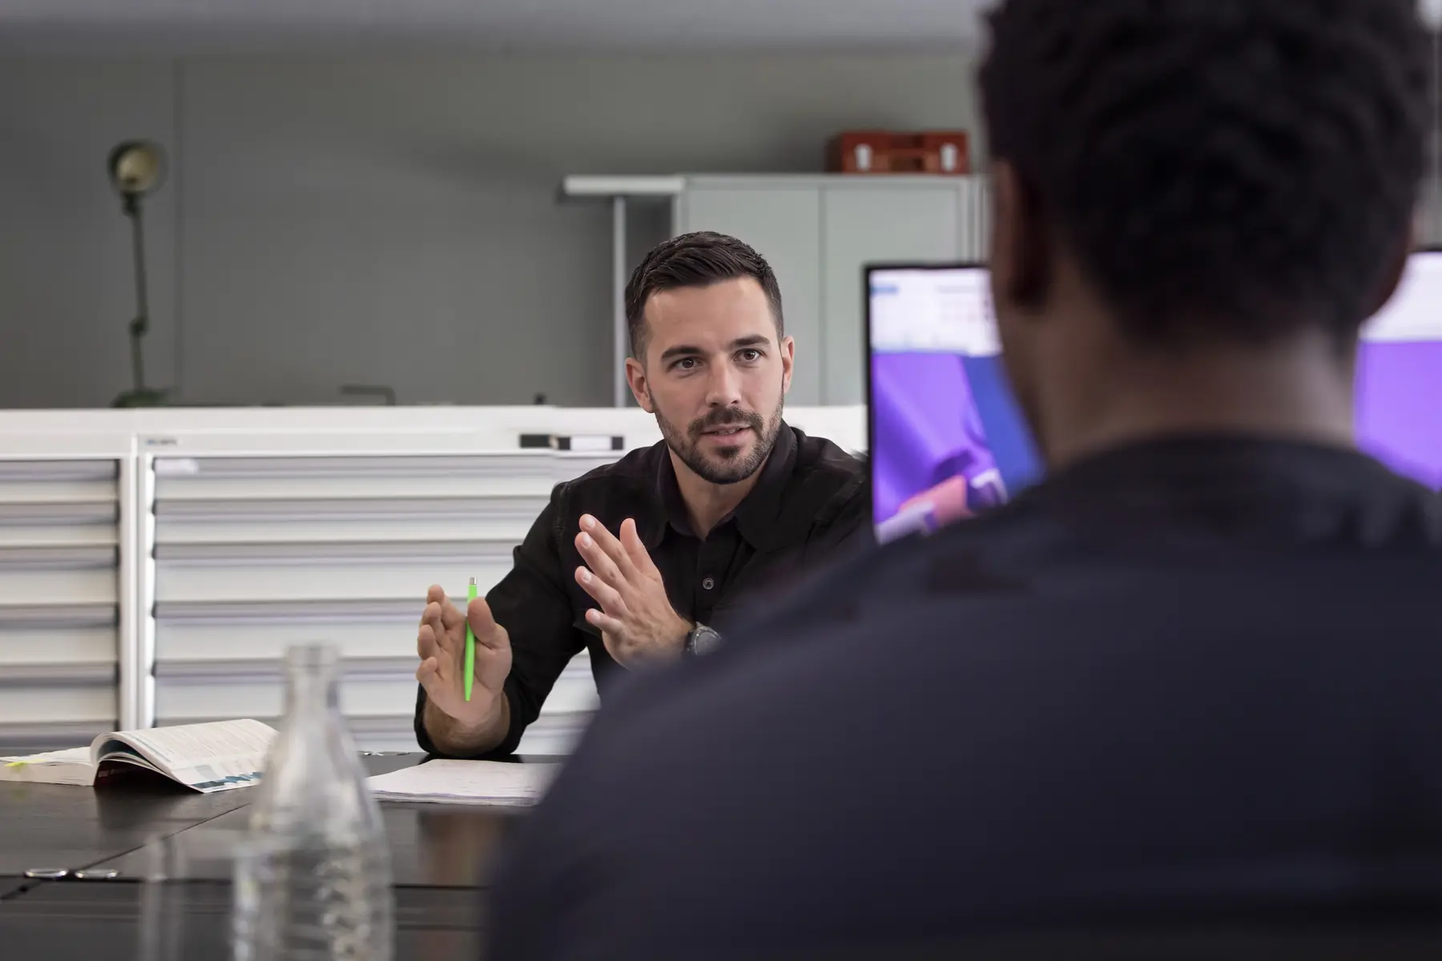
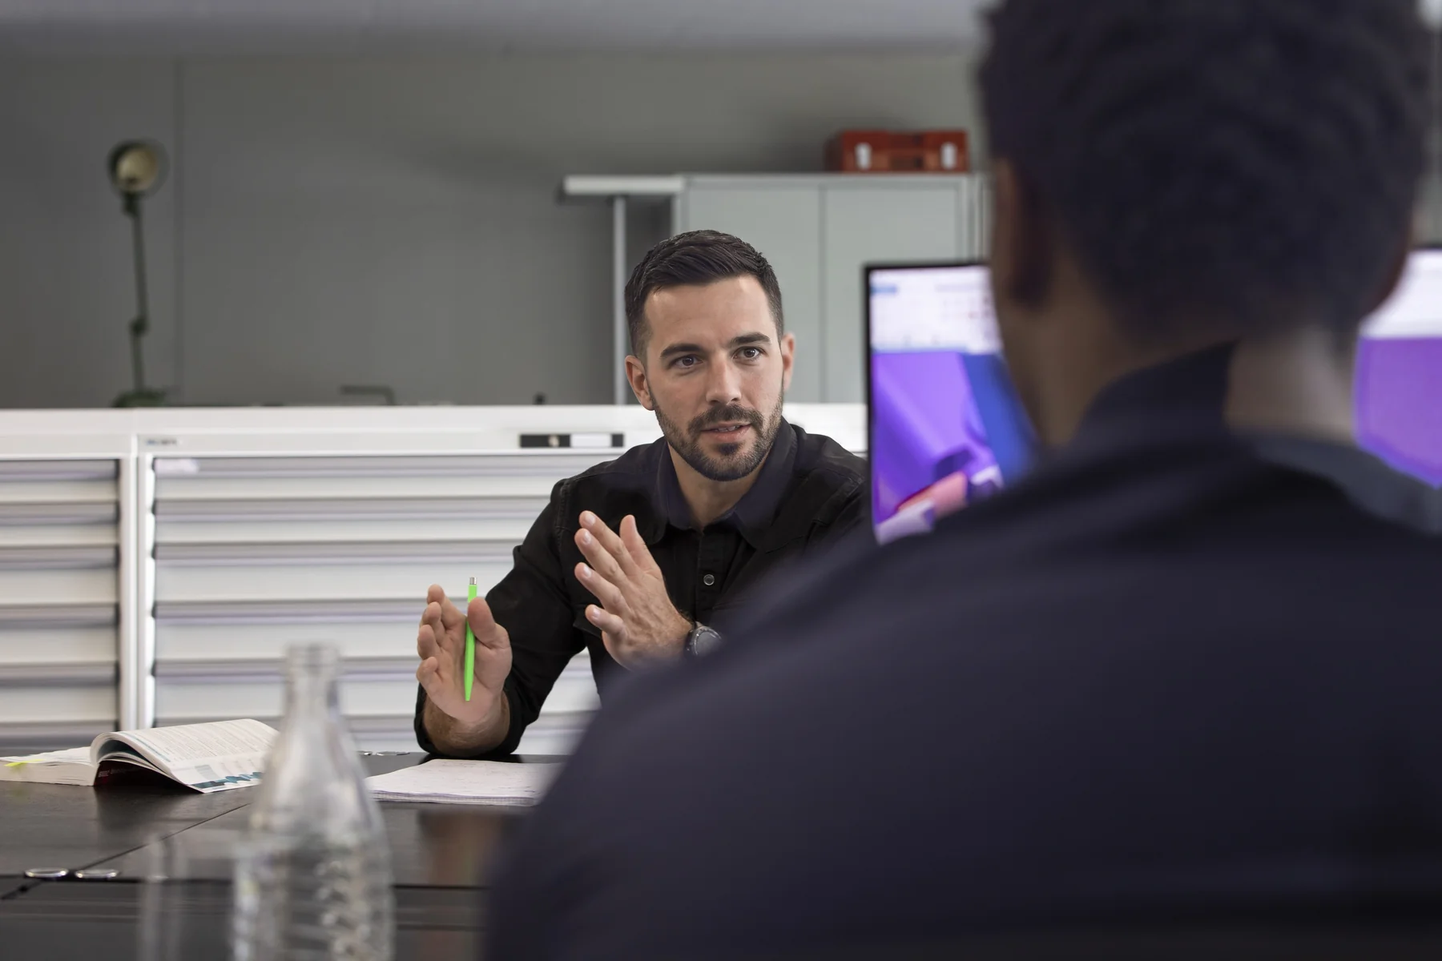
Fotos mit erfundenen Personen neu aus Mastern in Originalgroesse
Kundenauftrag 19.11.2026: alle Bearbeitungen auf Plausibilitaet pruefen
(Teint, Haarton, Arme und Haende passend zum Gesicht), der Lehrling
passte nicht.

- r1: zehn Fotos im Fundus ersetzt (09, 10, 11, 12, 15, 16, 18, 19, 20,
  21, je mit Mobilvariante). Sie stammen jetzt aus neuen Mastern, die aus
  den unveraenderten Originalfotos aufgebaut sind: Farben wie im Original,
  Lehrling neu und auf allen Fotos dieselbe Person, Haende an das Gesicht
  angeglichen. Bildausschnitt unveraendert, kein Eingriff in HTML, CSS, JS.
- Die Mitarbeiterin bleibt auf allen Fotos original (Kundenkorrektur).
- _handover/tools/fotomaster: Verfahren, Pruefung, Tabelle der 18 Master,
  offene Punkte und das Skript web_einsetzen.py (Web-Groessen aus den
  Mastern, prueft den Bildausschnitt gegen den Fundus).
- UEBERGABE.md, CLAUDE.md, V2-VIDEOVERGLEICH.md (Punkte 74 und 75) und
  Bilduebersicht nachgefuehrt.

Sweep r1: 5 Seiten x 6 Viewports x DE/EN ohne Befund.

Claude-Session: https://claude.ai/code/session_01SNQpCPUPKnTCeqsKMER1Gk

diff --git a/_handover/tools/fotomaster/web_einsetzen.py b/_handover/tools/fotomaster/web_einsetzen.py
@@ -1,0 +1,47 @@
+# Setzt Web-Fotos, die aus den Mastern in Originalgroesse gerechnet wurden, in den Fundus r1/assets/img/v2 ein.
+# Quelle je Foto: zwei JPEG-Haelften NN_L.jpg und NN_R.jpg (zusammen 1800 x 1200), erzeugt von web.py in der Bildwerkstatt.
+# Ziel: NN.webp (1800 x 1200) und NN-m.webp (1100 x 733), gleiche Einstellungen wie add_photos.py (WebP 85, method 6).
+# Aufruf: python3 web_einsetzen.py <ordner_mit_haelften> [NN ...]      (ohne Nummern: alle gefundenen)
+# Schutz: Das neue Bild muss denselben Ausschnitt zeigen wie die bisherige Fundus-Datei, sonst wird nichts geschrieben.
+import os, sys, glob, math
+from PIL import Image
+HERE = os.path.dirname(os.path.abspath(__file__))
+OUT = os.path.abspath(os.path.join(HERE, '..', '..', '..', 'r1', 'assets', 'img', 'v2'))
+
+def signatur(im, n=(48, 32)):
+    b = list(im.convert('L').resize(n, Image.BOX).tobytes())
+    m = sum(b) / len(b); v = [x - m for x in b]; s = math.sqrt(sum(x * x for x in v)) or 1.0
+    return [x / s for x in v]
+
+def aehnlich(a, b):
+    return sum(x * y for x, y in zip(signatur(a), signatur(b)))
+
+def main():
+    if len(sys.argv) < 2:
+        sys.exit('Aufruf: web_einsetzen.py <ordner_mit_haelften> [NN ...]')
+    src = sys.argv[1]
+    nums = sys.argv[2:] or sorted({os.path.basename(p)[:2] for p in glob.glob(os.path.join(src, '[0-9][0-9]_L.jpg'))})
+    for num in nums:
+        left = Image.open(os.path.join(src, num + '_L.jpg')).convert('RGB')
+        right = Image.open(os.path.join(src, num + '_R.jpg')).convert('RGB')
+        if left.height != 1200 or right.height != 1200 or left.width + right.width != 1800:
+            sys.exit(f'{num}: unerwartete Masse {left.size} + {right.size}')
+        im = Image.new('RGB', (1800, 1200)); im.paste(left, (0, 0)); im.paste(right, (left.width, 0))
+        alt_pfad = os.path.join(OUT, num + '.webp')
+        if os.path.exists(alt_pfad):
+            alt = Image.open(alt_pfad).convert('RGB')
+            if alt.size != (1800, 1200):
+                sys.exit(f'{num}: bisherige Datei hat {alt.size}, erwartet 1800 x 1200')
+            k = aehnlich(alt, im)
+            if k < 0.90:
+                sys.exit(f'{num}: Ausschnitt weicht von der bisherigen Datei ab (Kennwert {k:.3f}), nichts geschrieben')
+        else:
+            k = float('nan')
+        for suffix, width in (('', 1800), ('-m', 1100)):
+            out = im if width == 1800 else im.resize((width, round(1200 * width / 1800)), Image.LANCZOS)
+            pfad = os.path.join(OUT, f'{num}{suffix}.webp')
+            out.save(pfad, 'WEBP', quality=85, method=6)
+            print(pfad, out.size, os.path.getsize(pfad) // 1024, 'KB', f'Kennwert {k:.3f}' if suffix == '' else '')
+
+if __name__ == '__main__':
+    main()

diff --git a/_handover/tools/fotomaster/README.md b/_handover/tools/fotomaster/README.md
@@ -1,0 +1,140 @@
+# Fotos mit erfundenen Personen: Master in Originalgroesse (Stand 19.11.2026)
+
+Auf mehreren Fotos der Website sind die Koepfe echter Mitarbeitender durch erfundene Personen ersetzt. Dieser Ordner
+beschreibt, was daran am 19.11.2026 neu gemacht wurde, und enthaelt die Werkzeuge dazu. Die grossen Bilddateien selbst
+liegen nicht im Repository (siehe "Wo die Dateien liegen").
+
+## 1. Ausgangslage
+
+- Am 24.09.2026 entstanden im Higgsfield-Konto des Kunden 42 Bearbeitungen (Modell `nano_banana_flash`, Ausgabe
+  5056 x 3392) auf 19 Fotos in voller Groesse und vier Testausschnitten. Jede Bearbeitung hat das ganze Bild neu
+  gerechnet. Der Inhaber bleibt auf allen Fotos unveraendert.
+- Der Fotofundus der Website (`r1/assets/img/v2`, Fotos 09, 10, 11, 12, 15, 16, 18, 19, 20, 21) stammte aus diesen
+  Bearbeitungen. Im Repository war das bis 19.11.2026 nirgends vermerkt.
+- Maengel des alten Stands: Farbstich ins Magenta (schwarze Hemden violett, Decken rosa), das ganze Bild weicher als
+  das Original, der Lehrling mit rosa Haut und kindlichem Gesicht auf einem erwachsenen Koerper, Haende der
+  dunkleren Figur hell geblieben.
+- Kundenauftrag 19.11.2026: alle bearbeiteten Bilder auf Plausibilitaet pruefen (Haarton zu Armhaaren, Teint),
+  Qualitaet verbessern, auf den Originaldateien in voller Groesse arbeiten. Die Frau am Bildschirm (Foto 04) bleibt
+  Original, auch auf anderen Fotos.
+
+## 2. Verfahren
+
+Grundsatz: Das unveraenderte Original in voller Groesse ist die Basis. Ersetzt werden nur die Stellen, die sich
+aendern muessen. Farbstich und Unschaerfe des alten Stands verschwinden damit von selbst.
+
+1. **Koepfe aus der frueheren Bearbeitung uebernehmen** (`analyze.py`, `comp.py`, `build1.py`): Die alte Bearbeitung
+   wird auf das Original ausgerichtet (SIFT, affine Abbildung), farblich angeglichen (quadratische Abbildung, gelernt
+   auf unveraenderten Flaechen) und nur im Kopfbereich ins Original gesetzt (Differenzmaske, Feinverschiebung,
+   Kornangleich). Die Gesichter selbst sind die vom Kunden freigegebenen.
+2. **Lehrling neu** (`jobs.py`, `prep_gen.py`, `place.py`): In sechs Fotos wurde der Kopf neu erzeugt (Higgsfield,
+   Modell `nano_banana_2_1`, 4k, Ausschnitt 4:5 aus dem Original, dazu ein Referenzkopf). Das Ergebnis wird auf den
+   Ausschnitt ausgerichtet, farblich angeglichen und nur im Kopfbereich eingesetzt. Koerper, Arme und Haende bleiben
+   Original.
+3. **Hautton der dunkleren Figur** (`skin.py`, `skinreg.py`): Haende und Unterarme werden nur in der Farbe an das
+   Gesicht angeglichen (Verhaeltnis neues Gesicht zu Originalgesicht je Helligkeitsstufe). Struktur, Uhr, Ring und
+   Armband bleiben Original. Es wird nichts erzeugt.
+4. **Export** (`build2.py`): JPEG mit den Quantisierungstabellen, der Farbunterabtastung und dem Farbprofil des
+   Originals. Die Originale tragen keine EXIF-Daten, die Master auch nicht.
+
+## 3. Pruefung
+
+- **Gesichtsvergleich** (`facecheck.py`, `facecheck2.py`, YuNet und SFace aus OpenCV, gleiche Person ab 0.363):
+  Der Lehrling ist in allen sechs Fotos dieselbe Person (0.57 bis 0.97 zur Vorlage) und der echten Person nicht
+  aehnlich (0.12 bis 0.31 im fertigen Master). Von den 20 uebernommenen Koepfen mit sichtbarem Gesicht liegen 15
+  unter der Schwelle. Fuenf liegen darueber, sind der echten Person also noch aehnlich: Teamfoto rechts 0.62,
+  Profil am Bildschirm 0.47, zweite Drehmaschine 0.46, 3D-Drucker 0.44, Besprechung mit Flasche 0.43. Alle Werte
+  stehen in `protokoll/gesichtsvergleich.json` im Lieferpaket.
+- **Unabhaengige Durchsicht**: zehn Pruefer (je Fotogruppe ein Blick auf die Technik und einer auf die
+  Plausibilitaet, dazu ein Vergleich der Figuren ueber alle Fotos), danach wurde jeder Befund von einem zweiten
+  Pruefer am Bild nachgeprueft. Bestaetigte und behobene Befunde: zweite Hand der dunkleren Figur am Tablet,
+  Sonnenflecken am Handgelenk, heller Hautstreifen an der goldenen Uhr und am Uhrenband, Bartrest neben dem Kinn
+  des Lehrlings, angeschnittene Stirn des Lehrlings, unleserlich gewordenes Schild im Hintergrund, Einsetzkanten und
+  zu scharfer Hinterkopf bei zwei Rueckenfiguren.
+
+## 4. Bekannte Grenzen und offene Punkte
+
+- Fuenf uebernommene Koepfe sind der echten Person laut Gesichtsvergleich noch aehnlich (siehe Abschnitt 3), am
+  staerksten der Mann rechts im Teamfoto (Foto 16). Wenn die Personen nicht erkennbar sein sollen, diese Koepfe wie
+  beim Lehrling mit einem neuen erfundenen Gesicht ersetzen. Entscheid des Kunden offen.
+- Die uebernommenen Koepfe stammen aus Bildern mit 5056 Pixeln Breite. In der 100-Prozent-Ansicht sind sie etwas
+  weicher als das Original daneben. Fuer Web und uebliche Druckgroessen spielt das keine Rolle.
+- Die Figuren aus der frueheren Bearbeitung sind von Foto zu Foto nicht streng dieselbe Person (junger Mann mit
+  glattem Gesicht dreimal verschieden, Bart und Brille wechseln). Jedes Foto ist fuer sich stimmig. Wer die Figuren
+  vereinheitlichen will, erzeugt die Koepfe wie beim Lehrling mit einem festen Referenzkopf neu.
+- Auf dem Foto mit den drei Sitzenden ist am Knoechel der rechten Person eine Taetowierung der echten Person zu
+  sehen. Vor einer Veroeffentlichung dieses Fotos entfernen.
+- Die Fotos in der PowerPoint-Vorlage (`_handover/powerpoint/assets/p09.jpg` und weitere) und der eingefrorene
+  Fundus im Root (`assets/img/v2`) zeigen noch den alten Stand.
+- Rechtlich zu pruefen (keine Rechtsberatung): Verarbeitung von Mitarbeiterfotos bei einem externen KI-Dienst und
+  eine allfaellige Kennzeichnung KI-bearbeiteter Bilder.
+
+## 5. Die 18 Master
+
+`W` = Nummer im Fotofundus der Website. Ohne Nummer: nicht auf der Website.
+
+| W | Datei im Lieferpaket | Inhalt | Schritte |
+|---|---|---|---|
+| 09 | `IRo_09_tablet_master.jpg` | Zwei Personen am Tablet | Koepfe uebernommen, Hautton beider Haende |
+| 10 | `IRo_10_besprechung_geste_master.jpg` | Besprechung, Person von hinten | Koepfe uebernommen |
+| 11 | `IRo_11_besprechung_flasche_master.jpg` | Besprechung mit Flasche | Koepfe uebernommen |
+| 12 | `IRo_12_gespraech_master.jpg` | Inhaber im Gespraech | Hinterkopf uebernommen |
+| 15 | `IRo_15_skizze_master.jpg` | Skizzieren am Tablet | Kopf uebernommen |
+| 16 | `IRo_16_team_master.jpg` | Team am Tisch | Lehrling neu, ein Kopf uebernommen |
+| 18 | `IRo_18_kaffee_master.jpg` | Kaffeetasse | Kopf uebernommen |
+| 19 | `IRo_19_bauteile_master.jpg` | Bauteile pruefen | Koepfe uebernommen, Hautton der Haende |
+| 20 | `IRo_20_drehbank_master.jpg` | Drehmaschine | Kopf uebernommen |
+| 21 | `IRo_21_drucker_master.jpg` | 3D-Drucker | Kopf uebernommen |
+|  | `IRo_x1_fraesmaschine_master.jpg` | Fraesmaschine, Schutzbrille | Kopf uebernommen |
+|  | `IRo_x2_drehbank_zweite_master.jpg` | Drehmaschine, zweite Aufnahme | Kopf uebernommen |
+|  | `IRo_x3_profil_monitor_master.jpg` | Profil am Bildschirm | Kopf uebernommen |
+|  | `IRo_x4_vier_am_tisch_master.jpg` | Vier am Stehtisch | Lehrling neu, Koepfe uebernommen, Hautton |
+|  | `IRo_x5_drei_sitzend_master.jpg` | Drei mit Zeitschrift | Lehrling neu, Koepfe uebernommen, Hautton |
+|  | `IRo_x6_langer_tisch_master.jpg` | Langer Tisch, Frau bleibt Original | Lehrling neu, Kopf uebernommen, Hautton |
+|  | `IRo_x7_theke_master.jpg` | Vier an der Theke | Lehrling neu, Koepfe uebernommen, Hautton |
+|  | `IRo_x8_gruppe_gruen_master.jpg` | Gruppe vor gruener Wand | Lehrling neu, Koepfe uebernommen |
+
+Foto 04 (Mitarbeiterin am Bildschirm) bleibt das Original. Die Fotos 05 und 14 zeigen den Inhaber selbst.
+
+Higgsfield-Auftraege fuer den Lehrling (Modell `nano_banana_2_1`, 19.11.2026): Team `584d5ace`, Vier am Tisch
+`f096e3f8`, Drei sitzend `b71731ef`, Langer Tisch `22a48b8c`, Theke `db61cfba`, Gruppe `32e6cd9e` (jeweils die
+ersten acht Zeichen der Auftragsnummer, vollstaendig in `jobids.json`).
+
+## 6. Wo die Dateien liegen
+
+- **Master** (18 JPEG, 6038 bis 8192 Pixel breit, zusammen rund 100 MB), Protokolle je Foto und diese Werkzeuge:
+  als ZIP im Higgsfield-Konto des Kunden. Der Link wurde dem Kunden direkt uebergeben und steht bewusst nicht hier,
+  weil dieses Repository oeffentlich ausgeliefert wird.
+- **Originale und alte Bearbeitungen**: im Higgsfield-Konto (Uploads und Verlauf vom 24.09.2026).
+- **Bildwerkstatt**: Die Rechenumgebung bei Higgsfield haelt Dateien nur 24 Stunden nach der letzten Nutzung. Was
+  bleiben soll, liegt im ZIP.
+- **Website**: Die zehn Fotos im Fundus `r1/assets/img/v2` sind aus den Mastern neu gerechnet (1800 x 1200 und
+  1100 x 733, WebP 85).
+
+## 7. Werkzeuge
+
+Im Repository liegt nur `web_einsetzen.py` (setzt die Web-Groessen in den Fundus ein). Die Skripte der Bildwerkstatt
+liegen im Lieferpaket unter `werkzeuge/`, weil sie nur dort laufen (Originale und alte Bearbeitungen liegen bei
+Higgsfield). Eine spaetere Sitzung holt das ZIP `IRo_Fotomaster_2026-11-19.zip` ueber die Medienliste des
+Higgsfield-Kontos in die Bildwerkstatt.
+
+| Datei | Zweck |
+|---|---|
+| `analyze.py` | Alte Bearbeitung auf das Original ausrichten, Abweichungen messen |
+| `comp.py` | Kern: Farbangleich, Masken, Feinverschiebung, Korn, Einsetzen |
+| `spec.py`, `build1.py` | Koepfe je Foto (Kurzname, grobe Box) und Uebernahme aus der alten Bearbeitung |
+| `jobs.py`, `prep_gen.py`, `place.py` | Lehrling: Ausschnitte und Masken, Einsetzen der erzeugten Koepfe |
+| `skin.py`, `skinreg.py` | Hautton der dunkleren Figur: Messung am Gesicht, Bereiche je Foto |
+| `build2.py` | Master zusammensetzen und als JPEG schreiben |
+| `facecheck.py`, `facecheck2.py` | Gesichtsvergleich |
+| `qa.py`, `qacrop.py`, `kontakt.py` | Pruefblaetter, Ausschnitte, Kontaktblaetter je Figur |
+| `web.py` | Web-Groesse 1800 x 1200 aus einem Master, als zwei JPEG-Haelften |
+| `web_einsetzen.py` (im Repository) | Haelften zusammensetzen und als WebP in den Fundus schreiben |
+
+Ablauf zum Nachbauen in der Bildwerkstatt (Ordner mit `orig/`, `raw/`, `work/`, `gen/`, `master/`):
+`analyze.py`, dann `build1.py`, `prep_gen.py`, Koepfe erzeugen, `place.py`, `skin.py`, `build2.py`, `qa.py`.
+Benoetigt Python 3 mit Pillow, numpy und OpenCV. Die Skripte erwarten die Originale als `orig/<Kuerzel>.jpg` und die
+alten Bearbeitungen als `raw/<Nummer>.png`. Die Zuordnung steht in `spec.py`.
+
+Dieser Container erreicht die Bildablage von Higgsfield nicht direkt. Die Web-Groessen kamen deshalb als JPEG-Haelften
+ueber die Bildrueckgabe der Werkstatt ins Projekt (`web.py`, dann `web_einsetzen.py`).

diff --git a/UEBERGABE.md b/UEBERGABE.md
@@ -23,11 +23,16 @@ Prototyping. Zwei Arbeitsgebiete in diesem Repository:
   - **Ordner `r1/` = Arbeitskopie**, hier wird gearbeitet: https://iro101101.github.io/IRo-landingpage/r1/
     Fuenf Seiten: index, karriere, kontakt, impressum, datenschutz. Dazu fuenf Vorschauseiten `vorschau-*.html`
     (Entscheidungshilfen, bleiben als Nachschlagewerk, kommen nicht live).
-  - Cache-Version in allen r1-HTML-Dateien: `?v=20261015b`. Bei jeder Aenderung an `r1/assets/css/styles.css` oder
+  - Cache-Version in allen r1-HTML-Dateien: `?v=20261018b`. Bei jeder Aenderung an `r1/assets/css/styles.css` oder
     `r1/assets/js/main.js` hochzaehlen (`YYYYMMDD`, am selben Tag Buchstabe anhaengen).
   - Alle Kundenentscheide bis 15.10.2026 sind eingebaut (Liste: `V2-VIDEOVERGLEICH.md`, Punkte 1 bis 58).
     Letzte Entscheide 15.10.: duenne durchgezogene Linie statt gestrichelter Haarlinien (Vorbild `.hero__rule`),
     runde Eckmarker und runde Aufzaehlungspunkte.
+  - **Fotos mit erfundenen Personen (19.11.2026):** Die Fotos 09, 10, 11, 12, 15, 16, 18, 19, 20, 21 im Fundus
+    `r1/assets/img/v2` zeigen erfundene Personen (Koepfe ersetzt, Inhaber unveraendert, Foto 04 bleibt Original).
+    Sie sind seit 19.11. aus neuen Mastern in Originalgroesse gerechnet: natuerliche Farben, Lehrling neu, Haende
+    der dunkleren Figur farblich angeglichen. Verfahren, Pruefung und offene Punkte:
+    `_handover/tools/fotomaster/README.md`. Die Fundusdateien nie mehr aus den alten Bearbeitungen rechnen.
 - **Variante B** (Ordner `b/`, 08.10.) wurde dem Kunden gezeigt und verworfen; Aenderungen am Design nur Punkt fuer
   Punkt mit dem Kunden. Der Ordner `b/` wurde am 08.10.2026 wieder entfernt und liegt nur noch in der Git-Historie
   (angelegt mit Commit 93cb8cb, entfernt mit Commit 2e70474).
@@ -64,6 +69,19 @@ Beim Kunden:
   Place-ID liesse sich der Google-Maps-Link auf kontakt.html genau auf den Eintrag richten (`destination_place_id`).
 - Datenschutz Abschnitt 11 "Karte und Routenplanung" bei Bedarf rechtlich pruefen lassen (Recherche ist keine
   Rechtsberatung).
+
+Fotos mit erfundenen Personen (Stand 19.11.2026, Einzelheiten in `_handover/tools/fotomaster/README.md`):
+- Entscheid des Kunden offen: Fuenf uebernommene Koepfe sind der echten Person laut Gesichtsvergleich noch aehnlich
+  (Teamfoto 16 rechts, 3D-Drucker 21, Besprechung 11 und zwei Fotos ausserhalb der Website). Bei Bedarf wie beim
+  Lehrling mit einem neuen erfundenen Gesicht ersetzen.
+- Die Figuren aus der frueheren Bearbeitung sind von Foto zu Foto nicht streng dieselbe Person. Vereinheitlichen
+  nur auf Wunsch des Kunden.
+- PowerPoint-Vorlage: Die Fotos `_handover/powerpoint/assets/p09.jpg` und weitere stammen aus dem alten Stand
+  (Farbstich, alter Lehrling). Bei der naechsten Lieferung aus den Mastern neu rechnen.
+- Der eingefrorene Fundus im Root (`assets/img/v2`) zeigt weiter den alten Stand (Vergleichsbasis).
+- Alt-Texte der Fotos gibt es nur auf Deutsch, `applyLang` uebersetzt `alt` nicht.
+- Rechtlich pruefen lassen: Verarbeitung von Mitarbeiterfotos bei einem externen KI-Dienst, allfaellige
+  Kennzeichnung KI-bearbeiteter Bilder (Recherche ist keine Rechtsberatung).
 
 Vorgemerkt fuer das naechste Ueberarbeiten der Seite (Kundenauftrag 19.11.2026):
 - Mobilvarianten der Fotos einbinden. Heute laden alle Geraete `NN.webp` (1800 px, Hero 2400 px). Die Dateien
@@ -125,6 +143,9 @@ Notizen `scratchpad/...`). Alle Pfade sind relativ zum Skript; die Skripte laufe
   Standort noetig.
 - **Generatoren** (`generatoren/`): `build_subpages.py`, `build_kontakt.py`, `build_logo.py` haben die Unterseiten,
   die Kontaktseite und die Logo-Vorschau einmalig erzeugt; die HTML-Dateien werden seither direkt gepflegt.
+- **Fotos mit erfundenen Personen:** `_handover/tools/fotomaster/` (README mit Verfahren und Tabelle der 18 Master,
+  `web_einsetzen.py` setzt die Web-Groessen in den Fundus ein). Die Bildarbeit selbst laeuft in der Bildwerkstatt
+  von Higgsfield, die Skripte dazu liegen im Lieferpaket des Kunden.
 - **PowerPoint:** siehe `_handover/powerpoint/README.md` (Node mit pptxgenjs und jszip, Python mit python-pptx,
   pymupdf, defusedxml, LibreOffice Impress fuer PDFs, Inter als Systemschrift, Chromium fuer die Anleitung).
 - **Textregeln pruefen:** `grep -nE "–|—"` auf die HTML- oder Textdumps (keine Gedankenstriche), `grep -i` auf die
@@ -147,8 +168,8 @@ _handover/
   DESIGN-HANDOVER.md    Designbeschreibung v2 (Farben, Schrift, Vokabular, Bloecke, Texte), Stand 30.09.
   palette.png, logo/, screens/, bilduebersicht.png
   powerpoint/           Vorlage, Beispieldecks, Anleitung, Quellen, Referenz (alte Vorlage)
-  tools/                Sweep (test_v2b.py), Fotos (add_photos.py, bilduebersicht.py, v1img/), Karten (osm/),
-                        Generatoren (generatoren/)
+  tools/                Sweep (test_v2b.py), Fotos (add_photos.py, bilduebersicht.py, v1img/, fotomaster/),
+                        Karten (osm/), Generatoren (generatoren/)
   recherche/            Anreise-Fakten, Northwall-Bauanleitung, Analysen
   PROJEKT-ANWEISUNGEN.md Text fuer die Projektanweisungen des Claude-Projekts
 CLAUDE.md               verbindliche Regeln und Technik-Notizen (Pflichtlektuere)
@@ -162,6 +183,9 @@ UEBERGABE.md            dieses Dokument
 
 - Die Foto-Originale (6720 x 4480 JPG, Pakete 1 bis 5 des Fotografen) und die Chat-Uploads der Fotos 22 und 23
   (2000 px). Sie liegen beim Kunden. Im Repo sind nur die berechneten WebP-Dateien.
+- Die 18 Fotomaster mit erfundenen Personen in Originalgroesse (rund 100 MB), die Protokolle und die Skripte der
+  Bildwerkstatt: als ZIP `IRo_Fotomaster_2026-11-19.zip` im Higgsfield-Konto des Kunden. Dort liegen auch die
+  Originale und die Bearbeitungen vom 24.09.2026.
 - Fremde Praesentationen, die der Kunde als Beispiel hochgeladen hat (Folienmaster eines Drittunternehmens). Die
   daraus uebernommenen Ideen (Vergleich, Bildraster, Ansprechpersonen, senkrechte Fusszeile) sind in der Vorlage.
 - Zugangsdaten (Hostpoint, Google Analytics) liegen beim Kunden.
@@ -195,3 +219,5 @@ und jede Regel in `V2-VIDEOVERGLEICH.md`, `CLAUDE.md` und diesem Dokument festge
 - 15.10.: PowerPoint-Vorlage in drei Vorschaurunden entwickelt und geliefert; Website: duenne Linie, runde Punkte.
 - 16.10.: Uebergabe an das Claude-Projekt.
 - 18.10.: Nebenprojekt "Karte und Anfahrt" uebernommen; Website-Arbeit nur noch im Claude-Projekt.
+- 19.11.: Fotos mit erfundenen Personen geprueft und als Master in Originalgroesse neu aufgebaut, zehn Fotos im
+  Fundus `r1` ersetzt.

diff --git a/CLAUDE.md b/CLAUDE.md
@@ -73,7 +73,7 @@ Zuerst `UEBERGABE.md` lesen (Stand, offene Punkte, Werkzeuge, Ordnerkarte). Kund
   Der Ordner `b/` wurde am 08.10.2026 wieder entfernt und liegt nur noch in der Git-Historie (angelegt mit Commit
   93cb8cb, entfernt mit Commit 2e70474).
 - Runde 1 seit 08.10.2026: Root bleibt der Stand vom 30.09. (Vergleichsbasis, nicht anfassen), Ordner `r1/` ist die
-  Arbeitskopie (eigene assets/, Cache-Version 20261016; bei mehreren Aenderungen am selben Tag Buchstabe anhaengen), Vorschau https://iro101101.github.io/IRo-landingpage/r1/ .
+  Arbeitskopie (eigene assets/, Cache-Version 20261018b; bei mehreren Aenderungen am selben Tag Buchstabe anhaengen), Vorschau https://iro101101.github.io/IRo-landingpage/r1/ .
   Entscheidungsseiten dort: `r1/vorschau-uebergaenge.html` (sieben Fotouebergaenge aus dem Prompt, gemeinsame Uhr,
   Takt- und Tempo-Regler), `r1/vorschau-layouts.html` (Varianten Unternehmen U-A/B/C, Karten K-A/B/C, Team T-A/B/C)
   und `r1/vorschau-footer.html` (Footer der Unterseiten; Kundenentscheid 09.10.: Richtung F-B, Vorbild Footer
@@ -127,6 +127,13 @@ Zuerst `UEBERGABE.md` lesen (Stand, offene Punkte, Werkzeuge, Ordnerkarte). Kund
   Ladepanel: Karten 09-m/03-m/13-m/19-m/14-m, Schlussbild 07. Die uebrigen `-m`-Dateien sind nirgends eingebunden
   (kein picture, kein srcset, geprueft 19.11.2026): alle Geraete laden `NN.webp`. Vorgemerkt (Kundenauftrag 19.11.):
   beim naechsten Ueberarbeiten der Seite die Mobilvarianten einbinden (siehe UEBERGABE.md, offene Punkte).
+- Erfundene Personen (Stand 19.11.2026): Auf den Fotos 09, 10, 11, 12, 15, 16, 18, 19, 20, 21 sind die Koepfe der
+  Mitarbeitenden durch erfundene Personen ersetzt (Inhaber unveraendert; 04 Mitarbeiterin bleibt Original; 05 und 14
+  zeigen den Inhaber). Basis sind Master in Originalgroesse aus den unveraenderten Originalfotos, im Higgsfield-Konto
+  des Kunden (ZIP `IRo_Fotomaster_2026-11-19.zip`), nicht im Repository. Web-Groessen nur aus diesen Mastern rechnen
+  (`_handover/tools/fotomaster/web_einsetzen.py`), nie aus den Bearbeitungen vom 24.09.2026 (Farbstich, weicher).
+  Verfahren, Pruefung, Tabelle der 18 Master und offene Punkte: `_handover/tools/fotomaster/README.md`. Keine Namen
+  echter Personen und keine Links auf Originale oder Master ins Repository schreiben (wird oeffentlich ausgeliefert).
 - Kennzahlen im Hero (r1, 18.10.2026): "20+ Jahre" (vom Kunden noch zu bestaetigen), "1 Adresse" (ohne data-count, sonst
   zaehlt 0 bis 1), "130 dB" (Diktat). Counter() braucht eine Zahl im Wert, sonst haengt er "0" an.
 - Playwright im Container: `p.chromium.launch(executable_path='/opt/pw-browsers/chromium')`, Test-Skript

diff --git a/V2-VIDEOVERGLEICH.md b/V2-VIDEOVERGLEICH.md
@@ -314,6 +314,19 @@ vom 30.09. bleibt die Basis; die Punkte werden einzeln mit dem Kunden entschiede
     Abweichung: XS-1 und Kleinserien stehen in Zeile 07 statt unter den fuenf Schritten, dort waere nur mit einem neuen
     Element Platz. Team-Zeilen: Einblend-Staffel ab Zeile 04 gedeckelt (sonst 1.5 s Wartezeit bei Zeile 07).
     Cache-Version 20261018b. Status: erledigt in r1
+74. [Kunde 19.11.] Fotos mit erfundenen Personen: alle Bearbeitungen auf Plausibilitaet pruefen (Teint, Haarton,
+    Arme und Haende passend zum Gesicht), der Lehrling passte nicht. Umgesetzt: 18 Master in Originalgroesse aus den
+    unveraenderten Originalfotos neu aufgebaut, Lehrling neu und auf sechs Fotos dieselbe Person, Haende des zweiten
+    Mannes an das Gesicht angeglichen, Farben wie im Original (kein Farbstich mehr). Die Mitarbeiterin bleibt auf
+    allen Fotos original (Kundenkorrektur 19.11.). Zehn Fotos im Fundus von r1 ersetzt (09, 10, 11, 12, 15, 16, 18, 19,
+    20, 21, je mit Mobilvariante), Bildausschnitt unveraendert, kein Eingriff in HTML, CSS oder JS, Cache-Version
+    bleibt. Sweep 60/60 ohne Befund. Verfahren und Pruefung: `_handover/tools/fotomaster/README.md`.
+    Status: erledigt in r1. Offen (Entscheid Kunde): fuenf uebernommene Koepfe gleichen im Gesichtsvergleich noch der
+    echten Person, davon drei auf der Seite (16 rechts, 21, 11); Fotos der PowerPoint-Vorlage und der Fundus im Root
+    zeigen noch den alten Stand.
+75. [Kunde 19.11.] Mobilvarianten der Fotos (`NN-m.webp`) sind ausser im Ladepanel nirgends eingebunden, alle Geraete
+    laden die grosse Datei. Vorgemerkt fuer das naechste Ueberarbeiten der Seite (picture oder srcset).
+    Status: offen (vorgemerkt, siehe UEBERGABE.md)
 
 ### Bewusst anders (kein Handlungsbedarf, nur bestaetigen)
 - Prozentzahl in Signal Green statt gedaempftem Weiss. Fuellfarbe der Buttons Signal Green statt Weiss.
